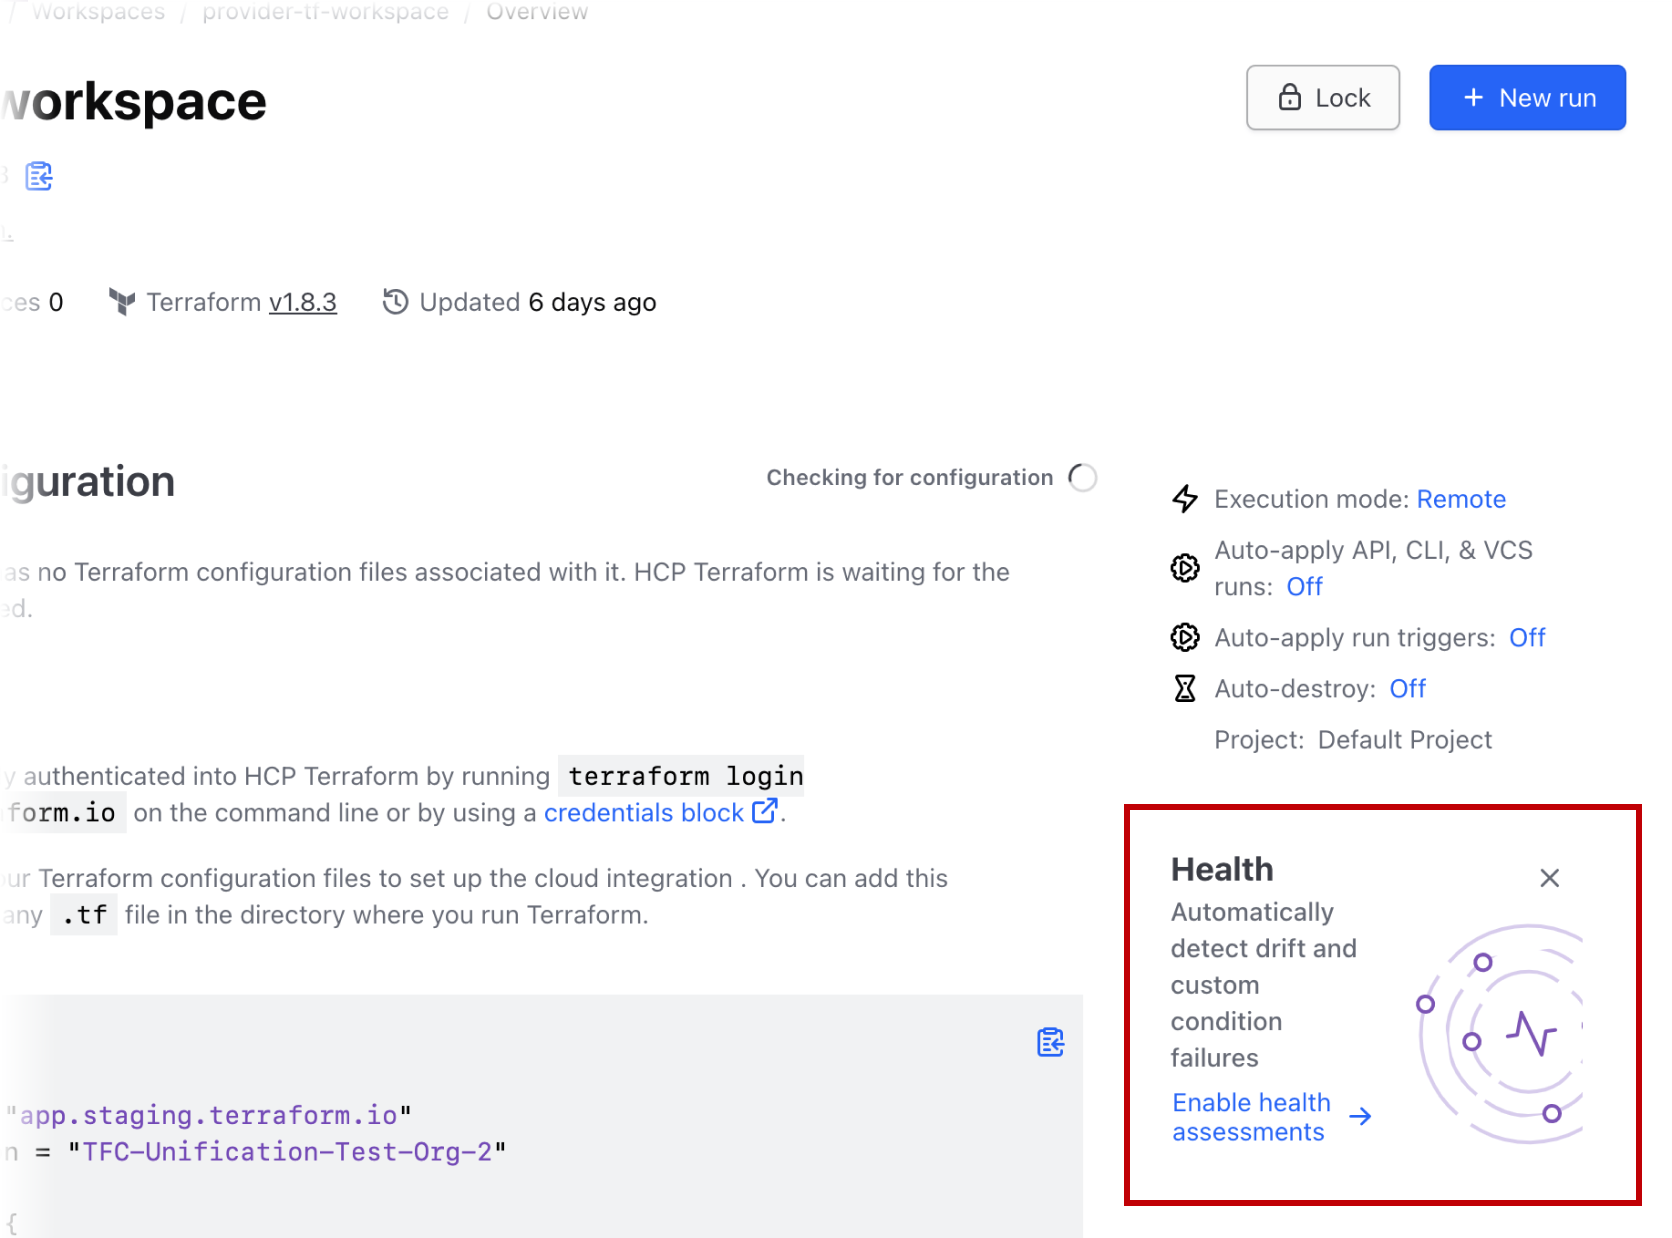
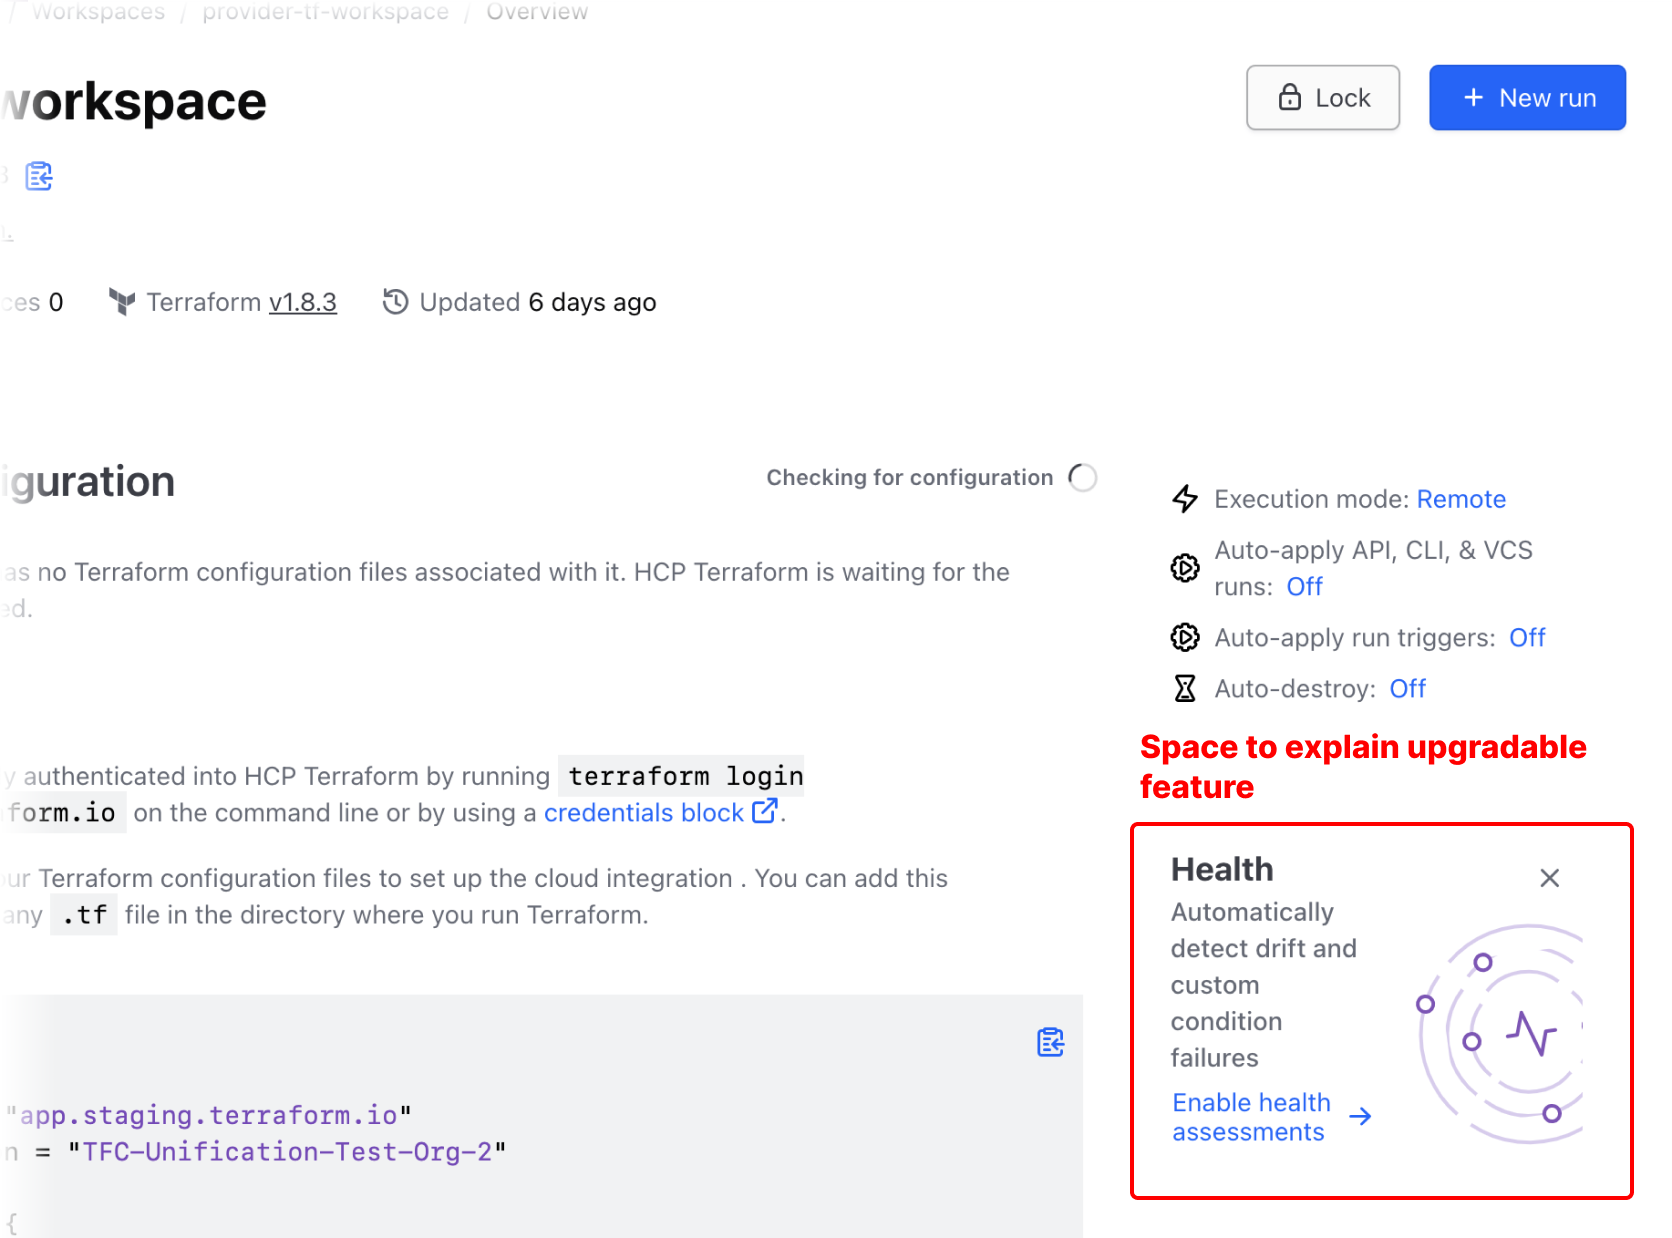
updated image for beta tag list item to text based

Changed region(s): [[0.6531, 0.5832, 0.9952, 0.9822]]

diff --git a/website/docs/patterns/disabled-patterns/partials/guidelines/guidelines.md b/website/docs/patterns/disabled-patterns/partials/guidelines/guidelines.md
@@ -54,13 +54,15 @@ There are two ways to showcase an upgradable feature:
 
 ### Space to explain
 
+When the page has space to showcase an upgradable feature, use it to explain how that feature can be a net positive to the user upon upgrading, and provide a CTA as a path forward.
+
 In this example, "Terraform Health" is a an upgradable feature and is contextually relevant in the workspace. The UI has space to entice the user by explaining a bit of what this service can do for them.
 
 ![Screen shot of Terraform workspace highlighting Terraform Health on the side bar below information.](/assets/patterns/disabled-patterns/upgrade-inline-example.png)
 
 ### Interrupting an action
 
-In this example, a user is about to perform an action and notices something new within the list of options, one with a "Beta" badge. 
+In this example, a user is about to perform an action and notices something new within the list of options. 
 
 ![Showing an open dropdown list, with two list items. One for creating a static secret, and another using an auto-rotating secret with a beta badge next to it.](/assets/patterns/disabled-patterns/upgrade-modal-example-1.png)
 
